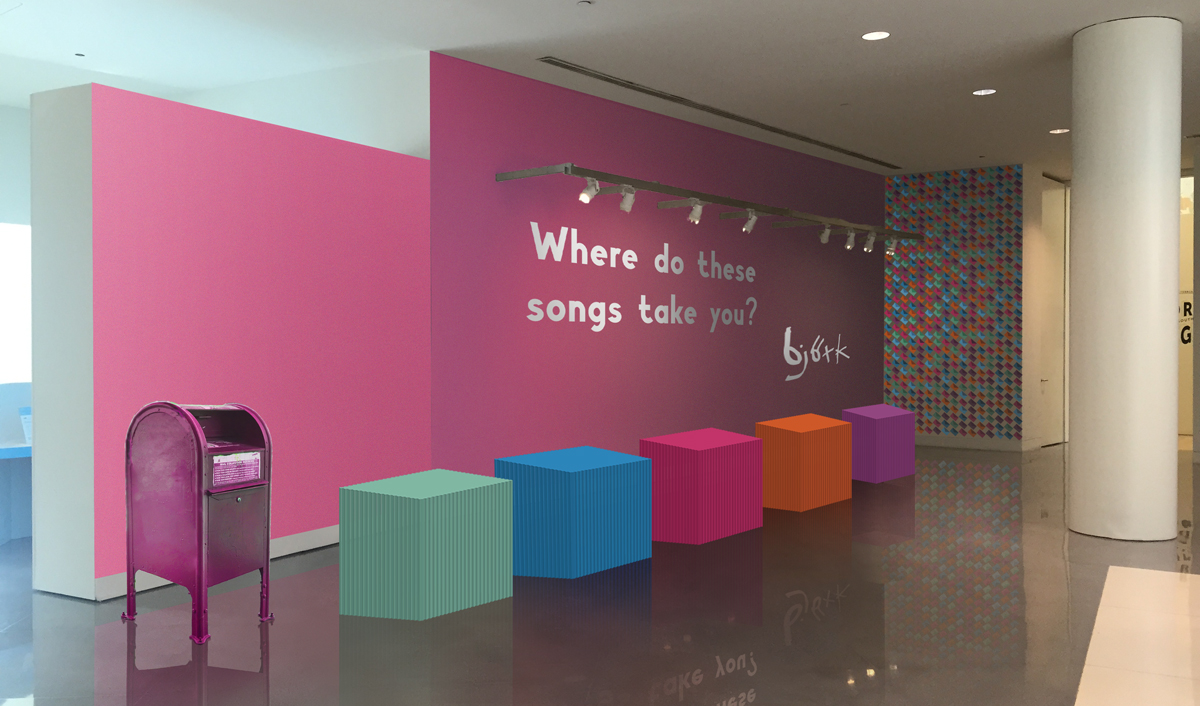
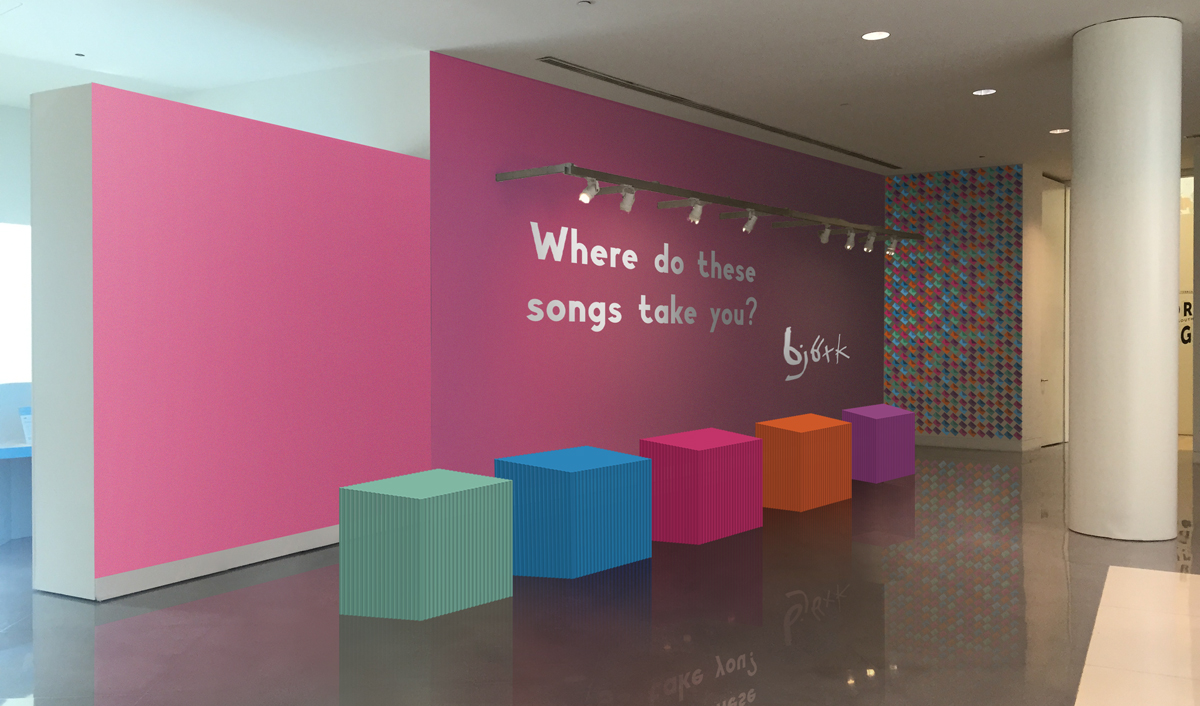
text change, image update

Changed region(s): [[0.0925, 0.5609, 0.2467, 1.0]]

diff --git a/bjork.html b/bjork.html
@@ -48,7 +48,7 @@
 					<!-- Before this project, I was only vaguely familiar with Björk. I listened to the album over and over, watched the different music videos, and did as much research as I could.  -->The most interesting fact I learned was that according to Björk, Post was inspired by her move from Iceland to London. In her eyes, the album was essentially a collection of letters sent back home to friends and loved ones.
 				</p>
 				<p>
-					This exhibition takes this idea and flips it: the audience is able to walk into the room and take one of the envelopes off of the wall. Inside is a postcard that can be taken to one of the listening stations. Once there, they can listen to the album and respond to the question, “Where does this music take you?” Afterwards, they can place the envelope inside one of the mailboxes located near each exit. Once the exhibition is complete, the letters would be mailed to Björk herself.
+					This exhibition takes this idea and flips it: the audience is able to walk into the room and take one of the envelopes off of the wall. Inside is a postcard that can be taken to one of the listening stations. Once there, they can listen to the album and respond to the question, “Where does this music take you?” Afterwards, they can place the envelope inside of the listening station table. Once the exhibition is complete, the letters would be mailed to Björk herself.
 				</p>
 
 			</div>
